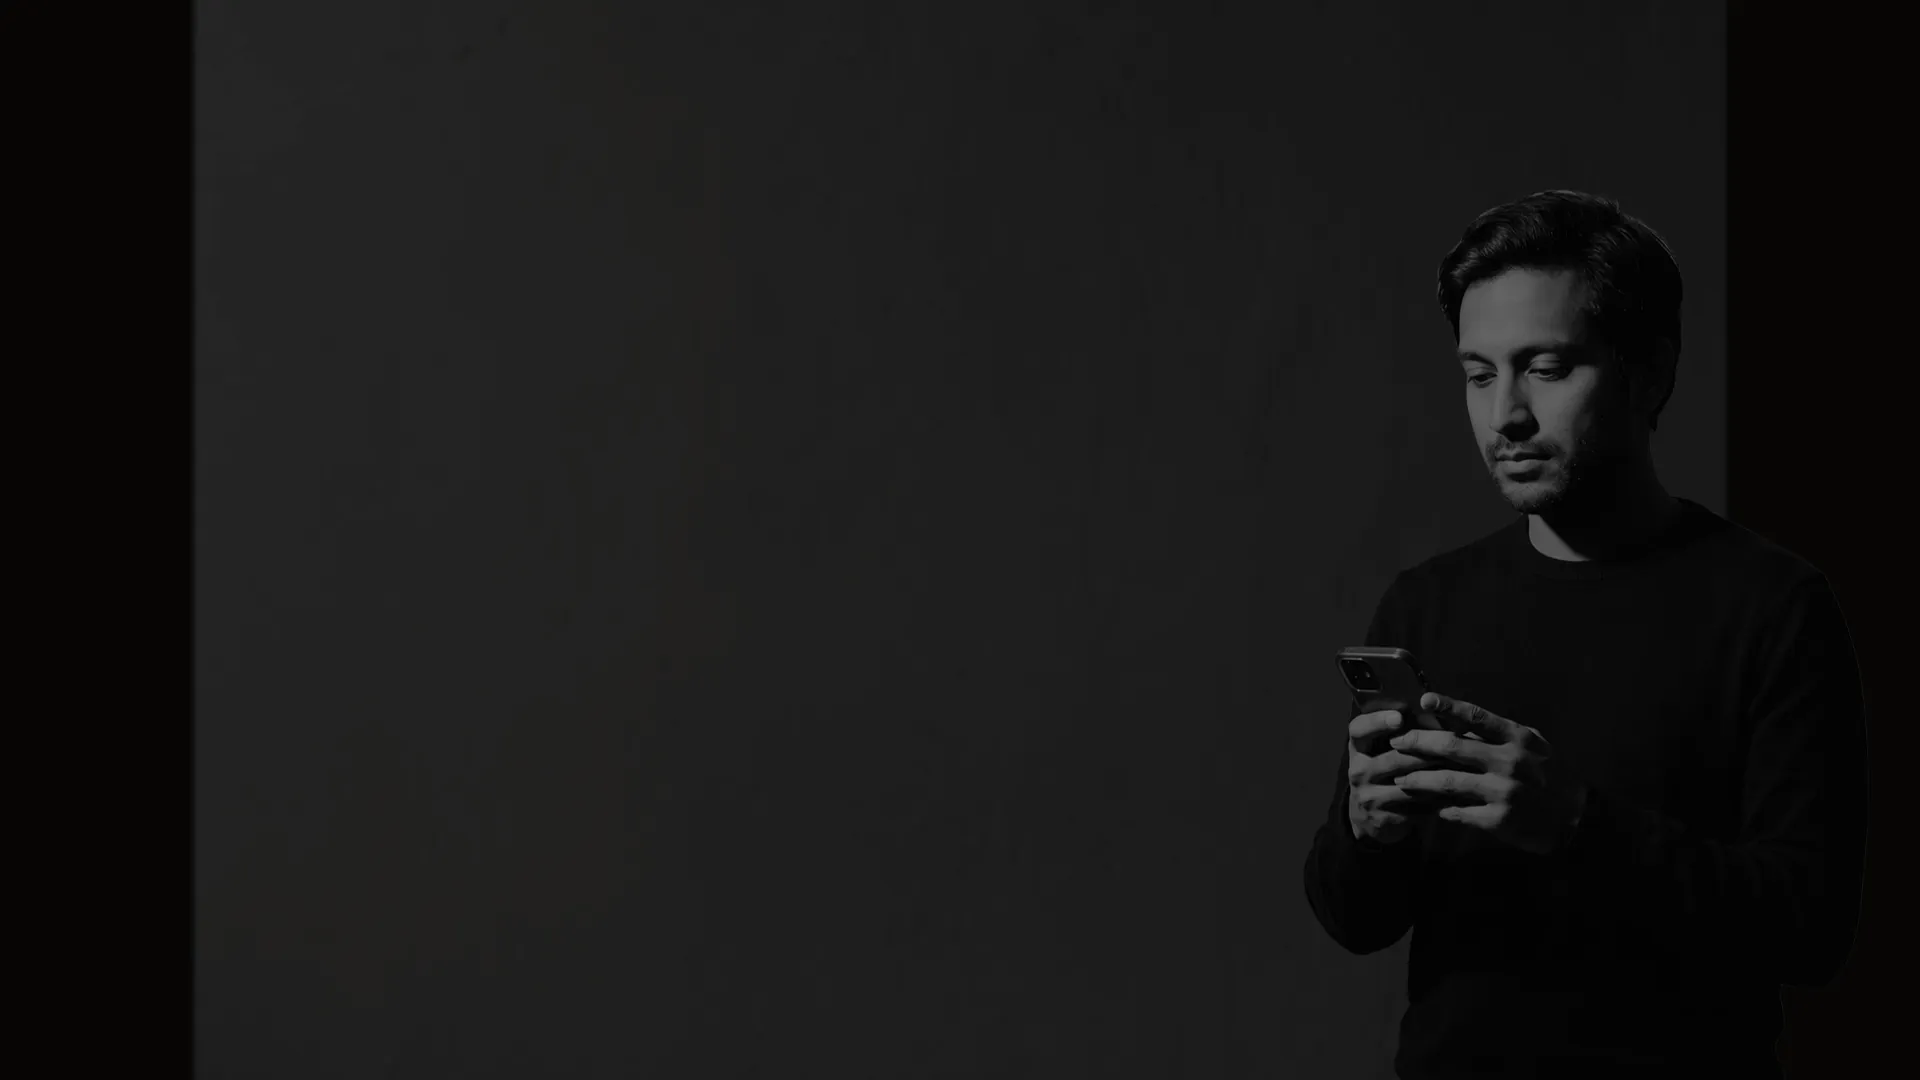
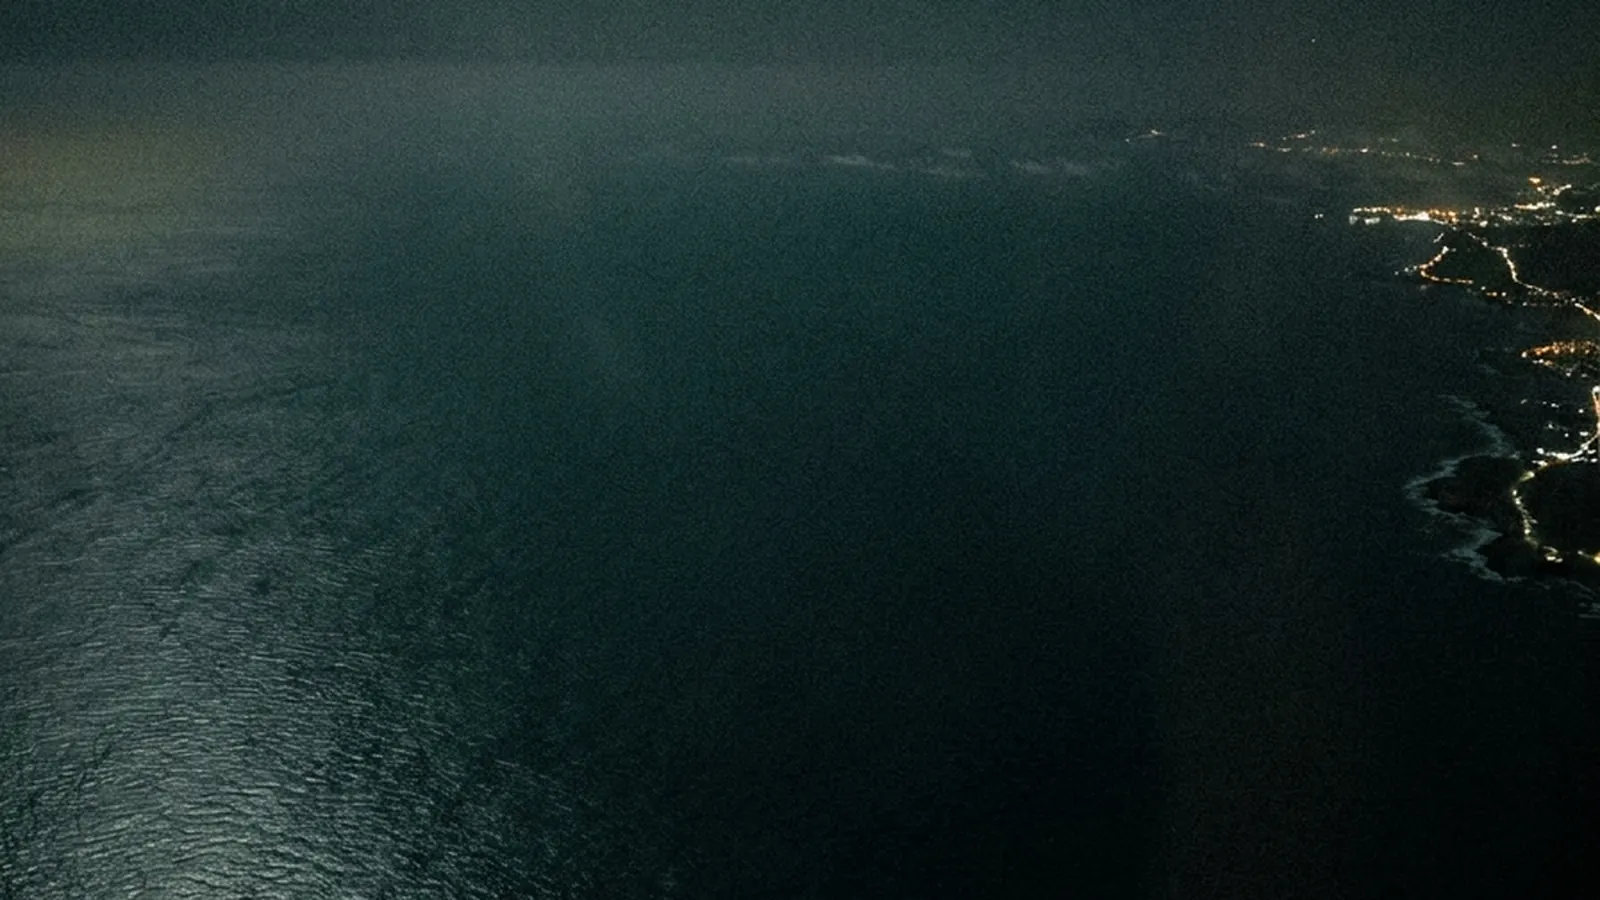
Put the real photography in, warmer than it arrived
The brief called them gloomy and the measurement agrees: the people shots
came in at 0.23-0.27 saturation, and Milan sat at 76/255 luminance. That is
my fault in the prompts, not the generator's — I asked for "tired but
composed", "thoughtful, looking down and away" and a muted desaturated
grade. That yields melancholy documentary, which is the wrong register for a
brand someone trusts with their wages. The feeling a remittance carries is
relief and connection, not hardship.

Four of the eight are kept and lifted. Milan needed the most (+30% exposure,
+26% saturation) and now reads at 97/255; the Madrid kitchen and the shop
took a gentler lift. Guayaquil was already the brightest and barely moved.

Four are dropped. Two are simply sad — one man sits alone looking worried at
a table of papers, and the care worker reads as exhausted. One carries a
visible Carhartt logo that my own prompt's negatives had ruled out. The
fourth is a well-dressed man on his phone in front of the Palacio de
Cibeles: bright and clean, but cast as a Spanish executive at a monument,
which is the stock-photo register the brief exists to avoid. Our sender
works a night shift.

The Atlantic keeps its darkness untouched and becomes the hero poster,
cropped 16:9 from the upper 18% where the coastal lights sit. That zone is
meant to be night and carries text over it.

The testimonial portrait now matches its own copy. It said "lives in Spain"
[…]

diff --git a/src/content/locales/es.ts b/src/content/locales/es.ts
@@ -690,7 +690,7 @@ export const es = {
     bandLead: "El dinero sale de un turno de noche en Europa y termina en una cocina de Guayaquil. Las dos mitades cuentan.",
     ocean: "El Atlántico de noche visto desde gran altura, con las luces de la costa en el borde del encuadre.",
     milan: "Hombre joven en una calle residencial de Milán al anochecer.",
-    lisbon: "Trabajadora de cuidados apoyada en la ventana de un pasillo, en Lisboa.",
+    madrid: "Mujer en la cocina de su piso en Madrid, apoyada en el marco de la puerta.",
     guayaquil: "Mujer mayor en la cocina de su casa en Guayaquil, mirando algo que tiene en las manos.",
     shop: "Interior de una tienda de barrio en la costa ecuatoriana, con la luz entrando por la puerta.",
     captionSend: "Quien envía",

diff --git a/src/content/locales/pt.ts b/src/content/locales/pt.ts
@@ -679,7 +679,7 @@ export const pt: Dictionary = {
     bandLead: "O dinheiro sai de um turno da noite na Europa e acaba numa cozinha em Guayaquil. As duas metades contam.",
     ocean: "O Atlântico à noite visto de grande altitude, com as luzes da costa na margem do enquadramento.",
     milan: "Homem jovem numa rua residencial de Milão ao anoitecer.",
-    lisbon: "Trabalhadora de cuidados encostada à janela de um corredor, em Lisboa.",
+    madrid: "Mulher na cozinha do seu apartamento em Madrid, encostada ao caixilho da porta.",
     guayaquil: "Mulher idosa na cozinha da sua casa em Guayaquil, a olhar para algo que tem nas mãos.",
     shop: "Interior de uma mercearia de bairro na costa equatoriana, com a luz a entrar pela porta.",
     captionSend: "Quem envia",

diff --git a/src/content/locales/en.ts b/src/content/locales/en.ts
@@ -661,7 +661,7 @@ export const en: Dictionary = {
     bandLead: "The money leaves a night shift in Europe and ends up in a kitchen in Guayaquil. Both halves count.",
     ocean: "The Atlantic at night from high altitude, coastal lights along the edge of the frame.",
     milan: "A young man on a residential street in Milan at dusk.",
-    lisbon: "A care worker leaning by a corridor window in Lisbon.",
+    madrid: "A woman in the kitchen of her flat in Madrid, leaning against the doorframe.",
     guayaquil: "An older woman in her kitchen in Guayaquil, looking at something in her hands.",
     shop: "The inside of a neighbourhood shop on the Ecuadorian coast, light coming through the doorway.",
     captionSend: "Who sends",

diff --git a/src/content/locales/lt.ts b/src/content/locales/lt.ts
@@ -682,7 +682,7 @@ export const lt: Dictionary = {
     bandLead: "Pinigai išeina iš naktinės pamainos Europoje ir atsiduria virtuvėje Gvajakilyje. Svarbios abi pusės.",
     ocean: "Atlantas naktį iš didelio aukščio, pakrantės žiburiai kadro pakraštyje.",
     milan: "Jaunas vyras gyvenamojoje Milano gatvėje sutemus.",
-    lisbon: "Slaugos darbuotoja prie koridoriaus lango Lisabonoje.",
+    madrid: "Moteris savo buto virtuvėje Madride, atsirėmusi į durų staktą.",
     guayaquil: "Vyresnė moteris savo virtuvėje Gvajakilyje žiūri į kažką, ką laiko rankose.",
     shop: "Kaimynystės parduotuvės vidus Ekvadoro pakrantėje, pro duris krenta šviesa.",
     captionSend: "Kas siunčia",

diff --git a/src/components/PhotoBand.tsx b/src/components/PhotoBand.tsx
@@ -22,7 +22,7 @@ export function PhotoBand({ dict }: { dict: Dictionary }) {
 
   const piezas = [
     { src: "/foto/remitente-milan.webp", alt: f.milan, pie: f.captionSend, alto: true },
-    { src: "/foto/remitente-lisboa.webp", alt: f.lisbon, pie: f.captionSend, alto: false },
+    { src: "/foto/remitente-madrid.webp", alt: f.madrid, pie: f.captionSend, alto: false },
     { src: "/foto/destino-guayaquil.webp", alt: f.guayaquil, pie: f.captionReceive, alto: false },
     { src: "/foto/destino-tienda.webp", alt: f.shop, pie: f.captionReceive, alto: true },
   ];

diff --git a/src/components/Placeholders.tsx b/src/components/Placeholders.tsx
@@ -99,7 +99,7 @@ export function QrPlaceholder({ brief }: { brief: string }) {
 export function AvatarPlaceholder() {
   return (
     <div className="avatar">
-      <Image src="/foto/testimonio.webp" alt="" width={44} height={44} />
+      <Image src="/foto/remitente-madrid.webp" alt="" width={44} height={44} />
     </div>
   );
 }
